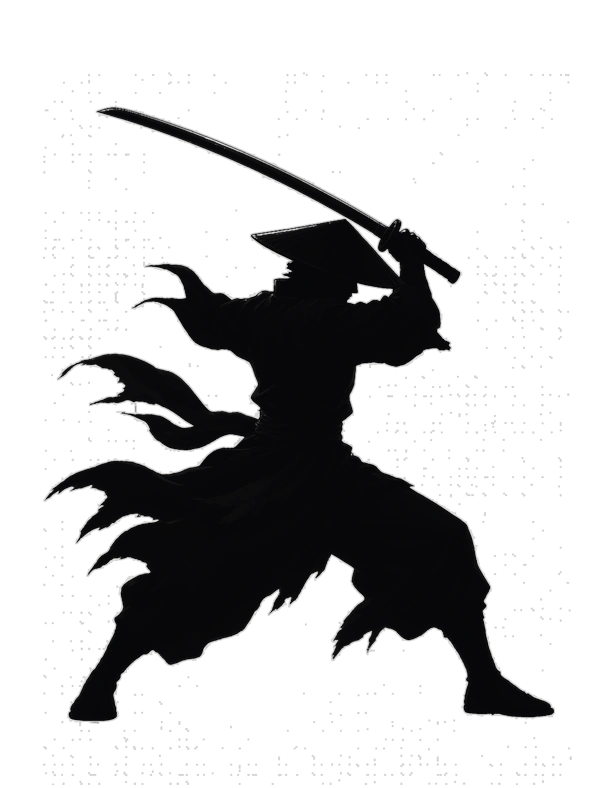
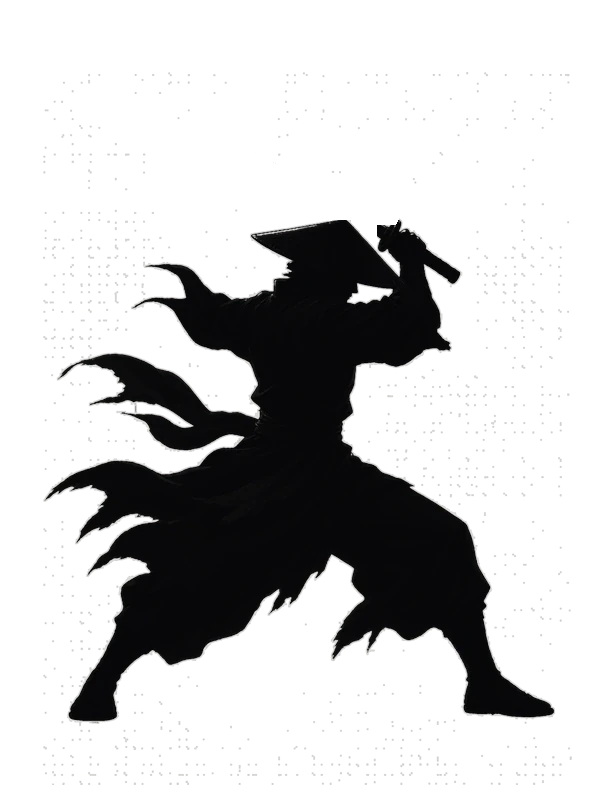
feat(spar): 演武台還原 2D 剪影水墨，兵器剪影跟裝備 EA0.46.0
- 還原 #88／#89（演武台 v4 同重畫素材），返返 AI 剪影主角、敵人同千燈鎮長卷
- 主角剪影逐格擦走原本畫死嘅刀（scripts/art/strip_hero_blade.py）
- 引擎按裝備欄畫兵器剪影：劍、刀、槍、棍、鞭、弓、暗器（空手唔畫），
  掛喺每格握點、沿該格揮擊方向（HERO_WEAPON_GRIPS），待機隨呼吸輕晃；
  拖墨軌跡跟兵器長度
- 拎走舊「揮擊時淡疊分層手臂」

Claude-Session: https://claude.ai/code/session_01GsCU8xUdSu1ojNzfMHx3eE

Changed region(s): [[0.1542, 0.1218, 0.6477, 0.3046]]

diff --git a/src/spar/engine.ts b/src/spar/engine.ts
@@ -30,11 +30,12 @@ import {
   HERO_ATK_FRAMES,
   HERO_LAYERS,
   SILHOUETTE_DESIGN_H,
+  HERO_WEAPON_GRIPS,
+  WEAPON_SIL_LENGTH,
   attackFrameIndex,
   drawSilhouetteSprite,
   walkFrameIndex,
   weaponFromKind,
-  weaponTipLocal,
 } from './silhouetteDraw';
 import { AnimDirector, type DirectorSample } from './animDirector';
 
@@ -315,9 +316,10 @@ export class SparStage {
     this.bgFade = 0;
   }
 
-  /** 換武器（裝備欄轉武器時叫）；null＝空手。剪影模式只讀 def.src 推斷兵種。 */
-  setWeapon(def: WeaponSpriteDef | null, _img: HTMLImageElement | null) {
+  /** 換武器（裝備欄轉武器時叫）；null＝空手。兵器剪影掛喺每格握點（HERO_WEAPON_GRIPS）。 */
+  setWeapon(def: WeaponSpriteDef | null, img: HTMLImageElement | null) {
     this.weaponDef = def;
+    this.images.weapon = def ? img : null;
   }
 
   /** 減少動態：保留「行過去打敵人」核心觀感，關掉震屏／粒子 */
@@ -733,17 +735,21 @@ export class SparStage {
       // A：揀全身幀（行路／揮擊／待機）——永遠先畫，確保主角可見
       let heroImg: CanvasImageSource = this.images.heroIdle;
       let part: { w: number; h: number; dx: number; dy: number } = HERO_SIL.idle;
+      let frameKey = 'idle';
       if (striking && this.images.heroAtk && this.images.heroAtk.length >= 3) {
         const fi = attackFrameIndex(at, this.attackClipNow().dur);
         heroImg = this.images.heroAtk[fi] ?? this.images.heroAttack;
         part = HERO_ATK_FRAMES[fi] ?? HERO_SIL.attack;
+        frameKey = this.images.heroAtk[fi] ? `atk-${fi}` : 'attack';
       } else if (striking) {
         heroImg = this.images.heroAttack;
         part = HERO_SIL.attack;
+        frameKey = 'attack';
       } else if (this.images.heroWalk && this.images.heroWalk.length >= 4 && (this.directorSample?.walkMul ?? 1) > 0.15) {
         const fi = walkFrameIndex(this.walkT);
         heroImg = this.images.heroWalk[fi] ?? this.images.heroIdle;
         part = HERO_WALK_FRAMES[fi] ?? HERO_SIL.idle;
+        frameKey = this.images.heroWalk[fi] ? `walk-${fi}` : 'idle';
       }
 
       ctx.save();
@@ -759,47 +765,27 @@ export class SparStage {
         dy: part.dy,
       });
 
-      // C：全身幀已帶臂／武器；舊分層臂只喺揮擊極淡疊一層（避免蓋過新剪影）
-      if (this.images.layerArm && striking && (this.directorSample?.phase === 'strike')) {
-        try {
-          const shoulder = this.rig.shoulderSocket;
-          ctx.save();
-          ctx.translate(shoulder.x * g.k, shoulder.y * g.k);
-          ctx.rotate((arm.rot + wep.rot * 0.35) * DEG);
-          drawSilhouetteSprite(ctx, this.images.layerArm, {
-            k: g.k * 0.95,
-            w: HERO_LAYERS.arm.w,
-            h: HERO_LAYERS.arm.h,
-            dx: HERO_LAYERS.arm.dx,
-            dy: HERO_LAYERS.arm.dy,
-            alpha: striking ? 0.85 : 0.45,
-          });
-          void head;
-          if (this.images.weapon && this.weaponDef) {
-            const grip = this.rig.gripSocket;
-            ctx.save();
-            ctx.translate(grip.x * g.k * 0.85, grip.y * g.k * 0.85);
-            ctx.rotate(wep.rot * DEG);
-            const wd = this.weaponDef;
-            ctx.drawImage(
-              toInkSilhouette(this.images.weapon),
-              -wd.grip.x * g.k * 0.55,
-              -wd.grip.y * g.k * 0.55,
-              wd.w * g.k * 0.55,
-              wd.h * g.k * 0.55,
-            );
-            ctx.restore();
-          }
-          ctx.restore();
-        } catch {
-          /* 分層失敗唔影響全身幀 */
-        }
+      // 兵器剪影：掛喺呢格握點，沿該格揮擊方向；空手唔畫（拖墨用拳風距離）
+      void arm;
+      void head;
+      const gripDef = HERO_WEAPON_GRIPS[frameKey] ?? HERO_WEAPON_GRIPS.idle!;
+      const gx = (gripDef.x + HERO_SIL.idle.dx) * g.k;
+      const gy = (gripDef.y + HERO_SIL.idle.dy) * g.k;
+      // 待機時兵器隨呼吸輕晃
+      const ang = gripDef.angle * DEG + (striking ? wep.rot * DEG * 0.15 : Math.sin(this.idleT * 2.2) * 0.03);
+      const len = (WEAPON_SIL_LENGTH[weaponKind] ?? WEAPON_SIL_LENGTH.fist!) * g.k;
+      if (this.images.weapon && this.weaponDef) {
+        const wd = this.weaponDef;
+        const s = len / Math.max(1, wd.tip.y - wd.grip.y);
+        ctx.save();
+        ctx.translate(gx, gy);
+        ctx.rotate(ang - Math.PI / 2);
+        ctx.drawImage(toInkSilhouette(this.images.weapon), -wd.grip.x * s, -wd.grip.y * s, wd.w * s, wd.h * s);
+        ctx.restore();
       }
 
       ctx.save();
-      ctx.rotate(arm.rot * DEG * 0.35);
-      ctx.rotate(wep.rot * DEG * 0.25);
-      const local = weaponTipLocal(weaponKind, g.k);
+      const local = { x: gx + Math.cos(ang) * len, y: gy + Math.sin(ang) * len };
       const m = ctx.getTransform();
       const tip = {
         x: (m.a * local.x + m.c * local.y + m.e) / this.dpr,

diff --git a/src/spar/silhouetteDraw.ts b/src/spar/silhouetteDraw.ts
@@ -44,6 +44,34 @@ export const HERO_LAYERS = {
   arm: { src: `${SIL_LAYERS}hero-arm.webp`, w: 161, h: 220, dx: -28, dy: -24 },
 } as const;
 
+/**
+ * 每格主角握點（剪影位圖像素；腳底錨點 (308, 788)）同兵器方向（度，0＝向右，順時針正）。
+ * 主角剪影已擦走原本畫死嘅刀，兵器剪影由引擎按裝備欄畫返上去（劍／刀／槍／棍／鞭／弓／暗器）。
+ */
+export const HERO_WEAPON_GRIPS: Readonly<Record<string, { x: number; y: number; angle: number }>> = {
+  idle: { x: 398, y: 490, angle: 37.9 },
+  'walk-0': { x: 398, y: 494, angle: 37.3 },
+  'walk-1': { x: 430, y: 468, angle: 37.8 },
+  'walk-2': { x: 398, y: 494, angle: 37.3 },
+  'walk-3': { x: 406, y: 497, angle: 38.2 },
+  attack: { x: 425, y: 262, angle: -154.2 },
+  'atk-0': { x: 422, y: 260, angle: -156.7 },
+  'atk-1': { x: 425, y: 262, angle: -154.2 },
+  'atk-2': { x: 512, y: 349, angle: 19.4 },
+};
+
+/** 兵器剪影長度：握點到尖（剪影設計單位，主角全高 788）；空手用嚟計拳風拖墨 */
+export const WEAPON_SIL_LENGTH: Readonly<Record<string, number>> = {
+  sword: 240,
+  blade: 230,
+  spear: 400,
+  staff: 380,
+  whip: 300,
+  bow: 210,
+  hidden: 110,
+  fist: 60,
+};
+
 /** 鋒尖相對腳底（設計單位）——拖墨軌用 */
 export function weaponTipLocal(_weapon: string, k: number): { x: number; y: number } {
   return { x: 210 * k, y: -420 * k };

diff --git a/tests/version.test.ts b/tests/version.test.ts
@@ -2,8 +2,8 @@ import { describe, expect, it } from 'vitest';
 import { APP_VERSION, APP_VERSION_LABEL } from '../src/version';
 
 describe('app version', () => {
-  it('exposes Early Access release EA0.44.1', () => {
-    expect(APP_VERSION).toBe('EA0.44.1');
-    expect(APP_VERSION_LABEL).toContain('EA0.44.1');
+  it('exposes Early Access release EA0.46.0', () => {
+    expect(APP_VERSION).toBe('EA0.46.0');
+    expect(APP_VERSION_LABEL).toContain('EA0.46.0');
   });
 });

diff --git a/src/version.ts b/src/version.ts
@@ -8,6 +8,6 @@
  *
  * 每次合併可遊玩改動時，按改變幅度升一檔，並同步改本檔與 package.json。
  */
-export const APP_VERSION = 'EA0.44.1';
+export const APP_VERSION = 'EA0.46.0';
 
 export const APP_VERSION_LABEL = `版本 ${APP_VERSION}`;

diff --git a/scripts/art/strip_hero_blade.py b/scripts/art/strip_hero_blade.py
@@ -1,0 +1,41 @@
+#!/usr/bin/env python3
+"""
+演武台主角剪影：擦走原本畫死喺每格嘅刀，等引擎按裝備欄畫返唔同兵器剪影。
+
+每格：沿「護手→刀尖」折線開一條帶，帶內只擦幼部分（形態學 opening 之後唔屬於身體嘅像素），手同身保留。
+握點同方向同步寫喺 src/spar/silhouetteDraw.ts 嘅 HERO_WEAPON_GRIPS（改呢度要一齊改嗰度）。
+重跑冇副作用（已擦嘅位置冇嘢再擦）。用法：python3 scripts/art/strip_hero_blade.py
+"""
+import json
+import numpy as np
+from PIL import Image, ImageDraw
+from scipy import ndimage as ndi
+import os
+B=os.path.join(os.path.dirname(__file__), '..', '..', 'public', 'ink', 'spar', 'sil') + '/'
+# (擦除折線：護手→刀尖, 握點, 角度方向點)
+F={
+ 'hero-idle.webp':([(405,497),(575,628)],(398,490),(575,628)),
+ 'frames/hero-walk-0.webp':([(405,500),(574,628)],(398,494),(574,628)),
+ 'frames/hero-walk-2.webp':([(405,500),(574,628)],(398,494),(574,628)),
+ 'frames/hero-walk-3.webp':([(414,503),(576,631)],(406,497),(576,631)),
+ 'frames/hero-walk-1.webp':([(425,418),(455,378),(496,322)],(430,468),(600,600)),
+ 'hero-attack.webp':([(392,232),(300,192),(200,145),(90,100)],(425,262),(90,100)),
+ 'frames/hero-atk-0.webp':([(383,231),(289,188),(190,145),(92,118)],(422,260),(92,118)),
+ 'frames/hero-atk-1.webp':([(392,232),(300,192),(200,145),(90,100)],(425,262),(90,100)),
+ 'frames/hero-atk-2.webp':([(527,353),(572,370)],(512,349),(600,380)),
+}
+out={}
+for f,(pts,grip,aim) in F.items():
+    im=Image.open(B+f).convert('RGBA'); a=np.asarray(im).copy()
+    M=a[...,3]>60
+    band=Image.new('L',im.size,0); dr=ImageDraw.Draw(band)
+    dr.line(pts,fill=255,width=30,joint='curve')
+    e=pts[-1]; dr.ellipse([e[0]-16,e[1]-16,e[0]+16,e[1]+16],fill=255)
+    band=np.asarray(band)>0
+    op=ndi.binary_opening(M, structure=np.ones((13,13)))
+    kill=band & ~op
+    a[kill,3]=0
+    Image.fromarray(a,'RGBA').save(B+f,'WEBP',quality=90,method=6)
+    ang=float(np.degrees(np.arctan2(aim[1]-grip[1],aim[0]-grip[0])))
+    out[f.split('/')[-1].replace('.webp','')]={'grip':list(grip),'angle':round(ang,1)}
+print(json.dumps(out,ensure_ascii=False))
